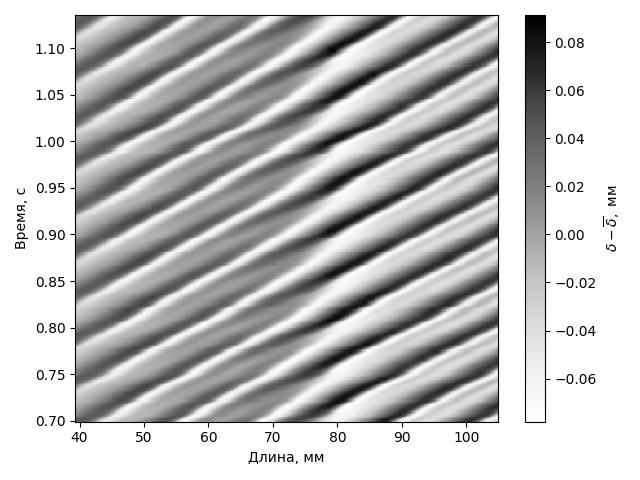
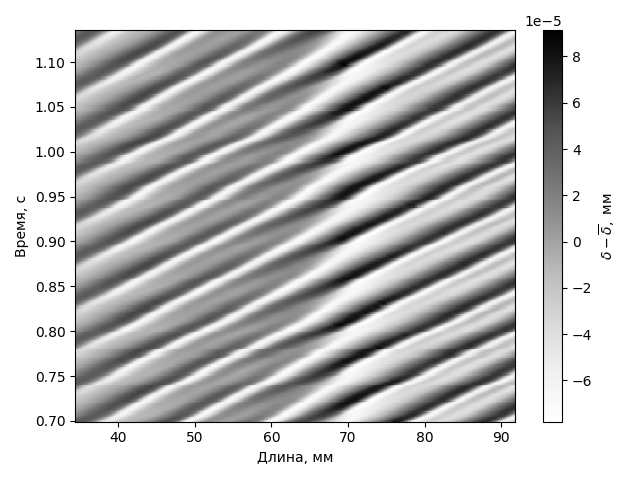
v4 normalize Kapitsa

diff --git a/processing_part1.py b/processing_part1.py
@@ -52,15 +52,15 @@ with open(filename, "r") as f:
 tf_ind = int(t_start/dt_step)
 xf_ind = int(x_frac_start*nx_max)
 xl_ind = int(x_frac_end*nx_max)
-#data = np.loadtxt(filename, skiprows=2, delimiter=',')
-data = np.genfromtxt(
+data = np.loadtxt(filename, skiprows=2, delimiter=',')
+""" data = np.genfromtxt(
     filename, 
     skip_header=2,
     delimiter=',', 
     usecols=range(1314),
     missing_values='')
 data = data[:, 1:]*1.0e3 
-
+ """
 fig, ax = plt.subplots(nrows=1,ncols = 1)
 ax1 = ax
 xmesh = np.linspace(0, 114.770, data.shape[1]) 

diff --git a/processing_part4.py b/processing_part4.py
@@ -39,7 +39,7 @@ import pandas as pd
 
 nx_max = 1500
 ny_max = 60
-v = 3
+v = 4
 dt_step = 0.001
 x_frac_start = 0.3 
 x_frac_end = 1.0
